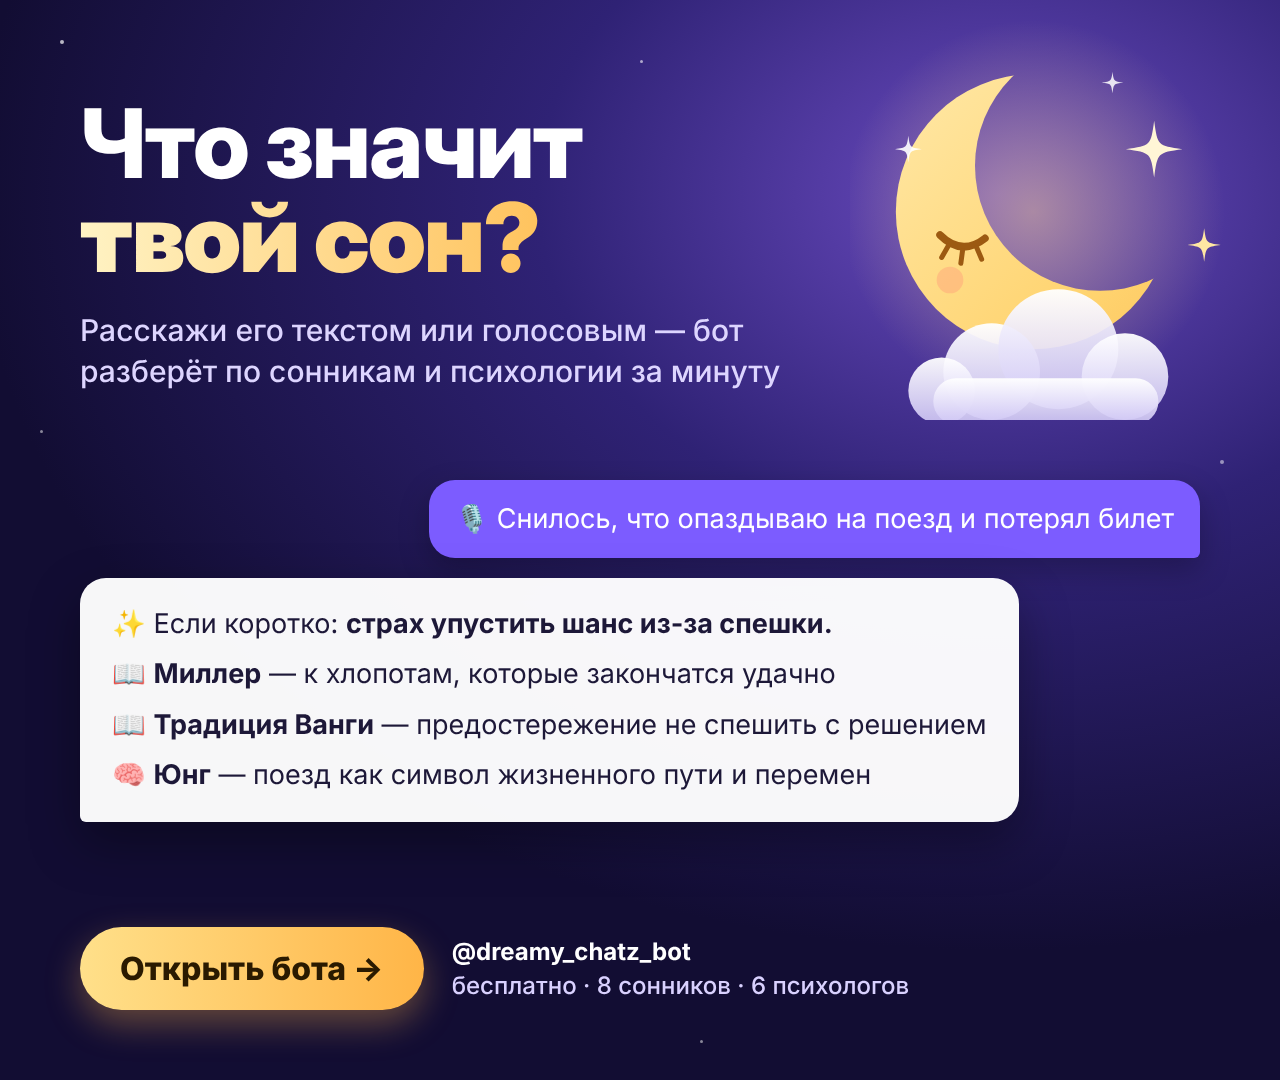
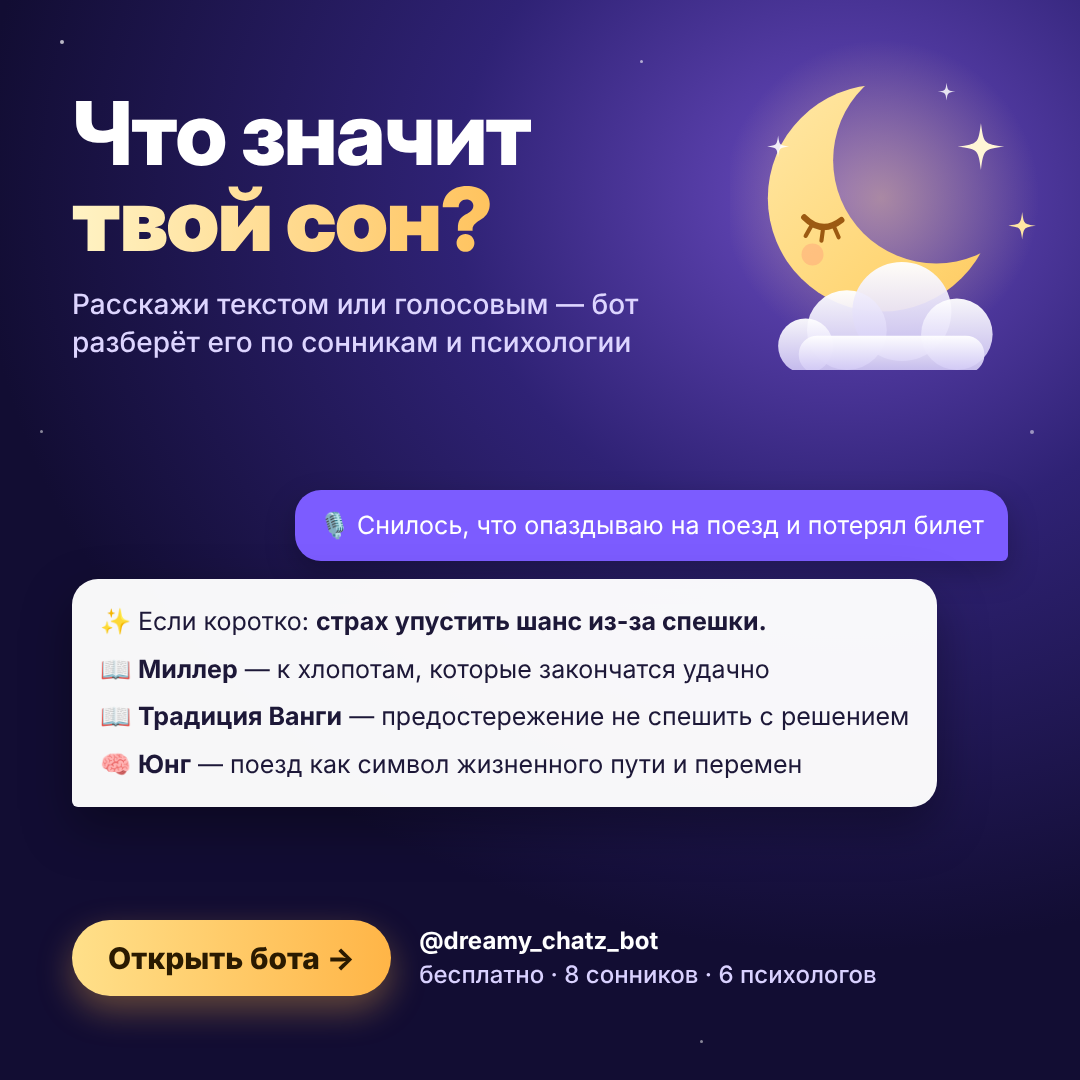
Рекламный креатив: квадрат 1080×1080, чтобы не обрезался в предпросмотре
Claude-Session: https://claude.ai/code/session_01RLkytM5wxf6PZbAqsvwt8o

diff --git a/assets/ad.html b/assets/ad.html
@@ -1,20 +1,20 @@
 <!doctype html><html><head><meta charset="utf-8"><style>
 *{margin:0;padding:0;box-sizing:border-box}
-body{width:1280px;height:1080px;overflow:hidden;font-family:Inter,"Noto Color Emoji",sans-serif;color:#fff;position:relative;
+body{width:1080px;height:1080px;overflow:hidden;font-family:Inter,"Noto Color Emoji",sans-serif;color:#fff;position:relative;
  background:radial-gradient(ellipse 80% 70% at 78% 18%,#6a4bc0 0%,#2f2275 45%,#120d33 100%)}
 .stars span{position:absolute;background:#fff;border-radius:50%}
-.moon{position:absolute;right:30px;top:20px;width:400px;height:400px}
-.head{position:absolute;left:80px;top:96px;width:760px}
-h1{font-family:"Inter Display",Inter;font-weight:800;font-size:96px;line-height:.98;letter-spacing:-2px}
+.moon{position:absolute;right:20px;top:40px;width:330px;height:330px}
+.head{position:absolute;left:72px;top:90px;width:700px}
+h1{font-family:"Inter Display",Inter;font-weight:800;font-size:88px;line-height:.98;letter-spacing:-2px}
 h1 b{background:linear-gradient(90deg,#fff3c4,#ffc35e);-webkit-background-clip:text;color:transparent}
-.sub{margin-top:26px;font-size:30px;line-height:1.35;color:#ddd5ff;font-weight:500;width:720px}
-.chat{position:absolute;left:80px;right:80px;top:480px}
-.me{margin-left:auto;width:max-content;background:#7c5cff;border-radius:26px 26px 6px 26px;padding:20px 26px;font-size:27px;line-height:1.4;white-space:nowrap;box-shadow:0 12px 30px rgba(0,0,0,.25)}
-..bot-unused{}.bot{margin-top:20px;max-width:1000px;width:max-content;background:rgba(255,255,255,.97);color:#1d1838;border-radius:26px 26px 26px 6px;padding:26px 32px;font-size:27px;line-height:1.5;box-shadow:0 20px 50px rgba(0,0,0,.35)}
+.sub{margin-top:24px;font-size:28px;line-height:1.35;color:#ddd5ff;font-weight:500;width:640px}
+.chat{position:absolute;left:72px;right:72px;top:490px}
+.me{margin-left:auto;width:max-content;background:#7c5cff;border-radius:26px 26px 6px 26px;padding:18px 24px;font-size:25px;line-height:1.4;white-space:nowrap;box-shadow:0 12px 30px rgba(0,0,0,.25)}
+..bot-unused{}.bot{margin-top:18px;max-width:936px;width:max-content;background:rgba(255,255,255,.97);color:#1d1838;border-radius:26px 26px 26px 6px;padding:24px 28px;font-size:25px;line-height:1.5;box-shadow:0 20px 50px rgba(0,0,0,.35)}
 .bot .r{margin-top:10px}
 .bot b{font-weight:700}
-.cta{position:absolute;left:80px;right:80px;bottom:70px;display:flex;align-items:center;gap:28px}
-.btn{background:linear-gradient(90deg,#ffe08a,#ffb547);color:#2a1a00;font-weight:800;font-size:32px;padding:22px 40px;border-radius:999px;box-shadow:0 14px 34px rgba(255,181,71,.35);white-space:nowrap}
+.cta{position:absolute;left:72px;right:72px;bottom:84px;display:flex;align-items:center;gap:28px}
+.btn{background:linear-gradient(90deg,#ffe08a,#ffb547);color:#2a1a00;font-weight:800;font-size:30px;padding:20px 36px;border-radius:999px;box-shadow:0 14px 34px rgba(255,181,71,.35);white-space:nowrap}
 .note{font-size:24px;color:#d9d1ff;line-height:1.4;font-weight:500}
 .note b{color:#fff}
 </style></head><body>
@@ -22,7 +22,7 @@ h1 b{background:linear-gradient(90deg,#fff3c4,#ffc35e);-webkit-background-clip:t
  <span style="left:60px;top:40px;width:4px;height:4px;opacity:.7"></span>
  <span style="left:640px;top:60px;width:3px;height:3px;opacity:.6"></span>
  <span style="left:40px;top:430px;width:3px;height:3px;opacity:.5"></span>
- <span style="left:1220px;top:460px;width:4px;height:4px;opacity:.5"></span>
+ <span style="left:1030px;top:430px;width:4px;height:4px;opacity:.5"></span>
  <span style="left:700px;top:1040px;width:3px;height:3px;opacity:.5"></span>
 </div>
 <svg class="moon" viewBox="80 60 480 480" xmlns="http://www.w3.org/2000/svg">
@@ -46,7 +46,7 @@ h1 b{background:linear-gradient(90deg,#fff3c4,#ffc35e);-webkit-background-clip:t
 </svg>
 <div class="head">
  <h1>Что значит<br><b>твой сон?</b></h1>
- <div class="sub">Расскажи его текстом или голосовым — бот разберёт по сонникам и психологии за минуту</div>
+ <div class="sub">Расскажи текстом или голосовым — бот разберёт его по сонникам и психологии</div>
 </div>
 <div class="chat">
  <div class="me">🎙 Снилось, что опаздываю на поезд и потерял билет</div>
